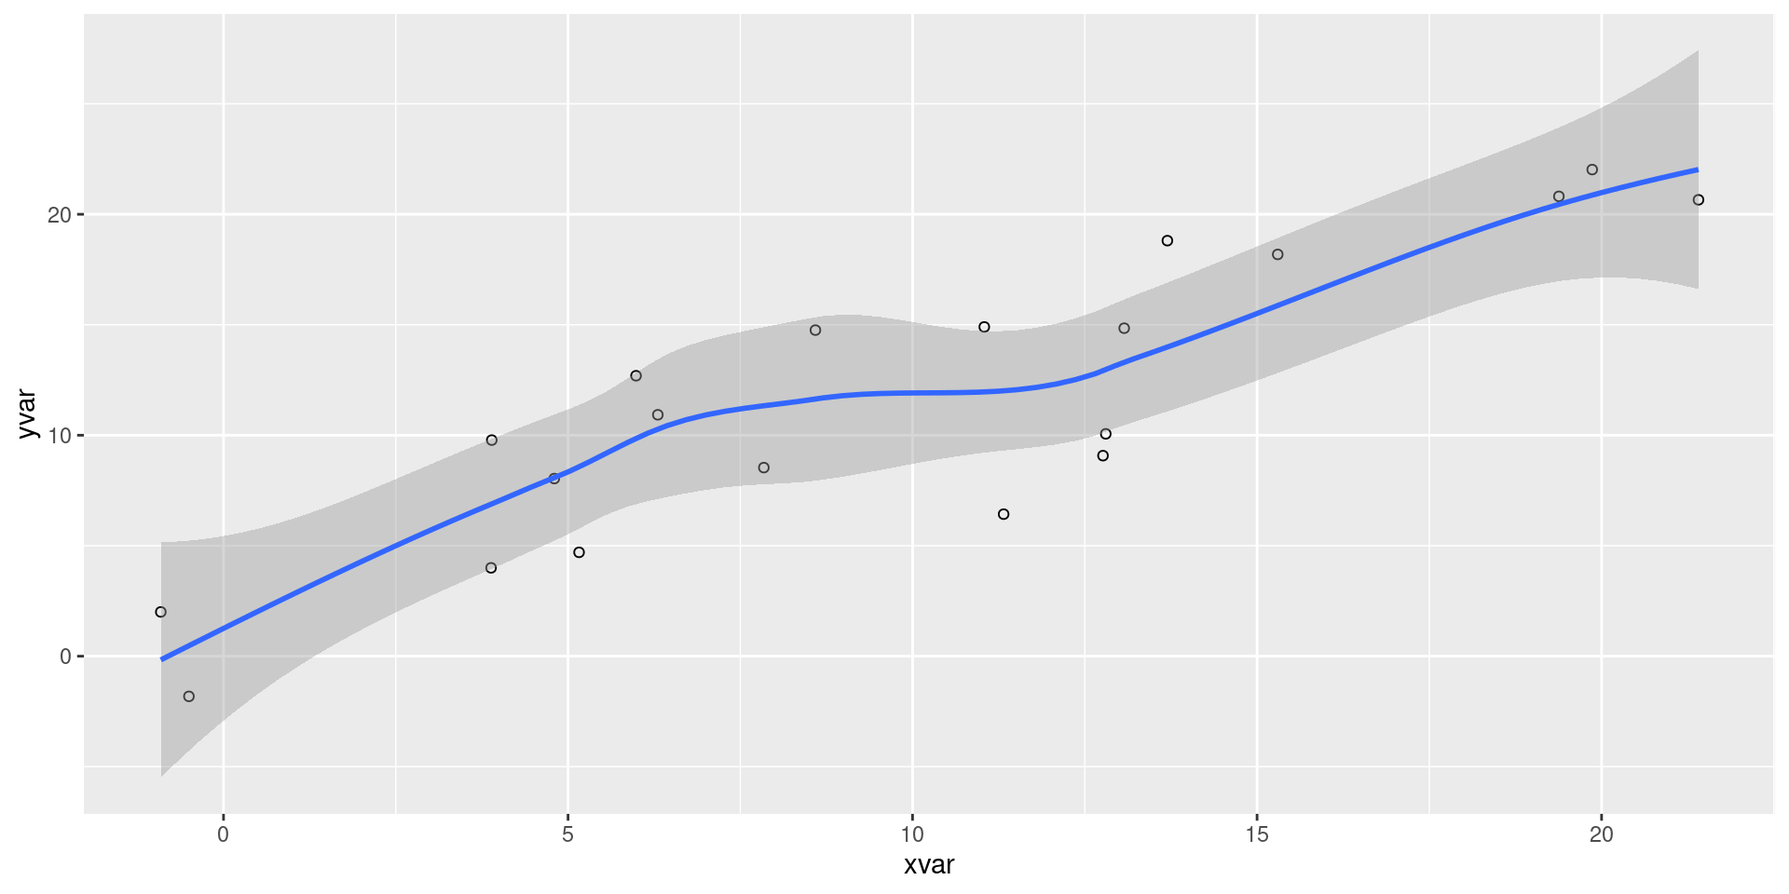
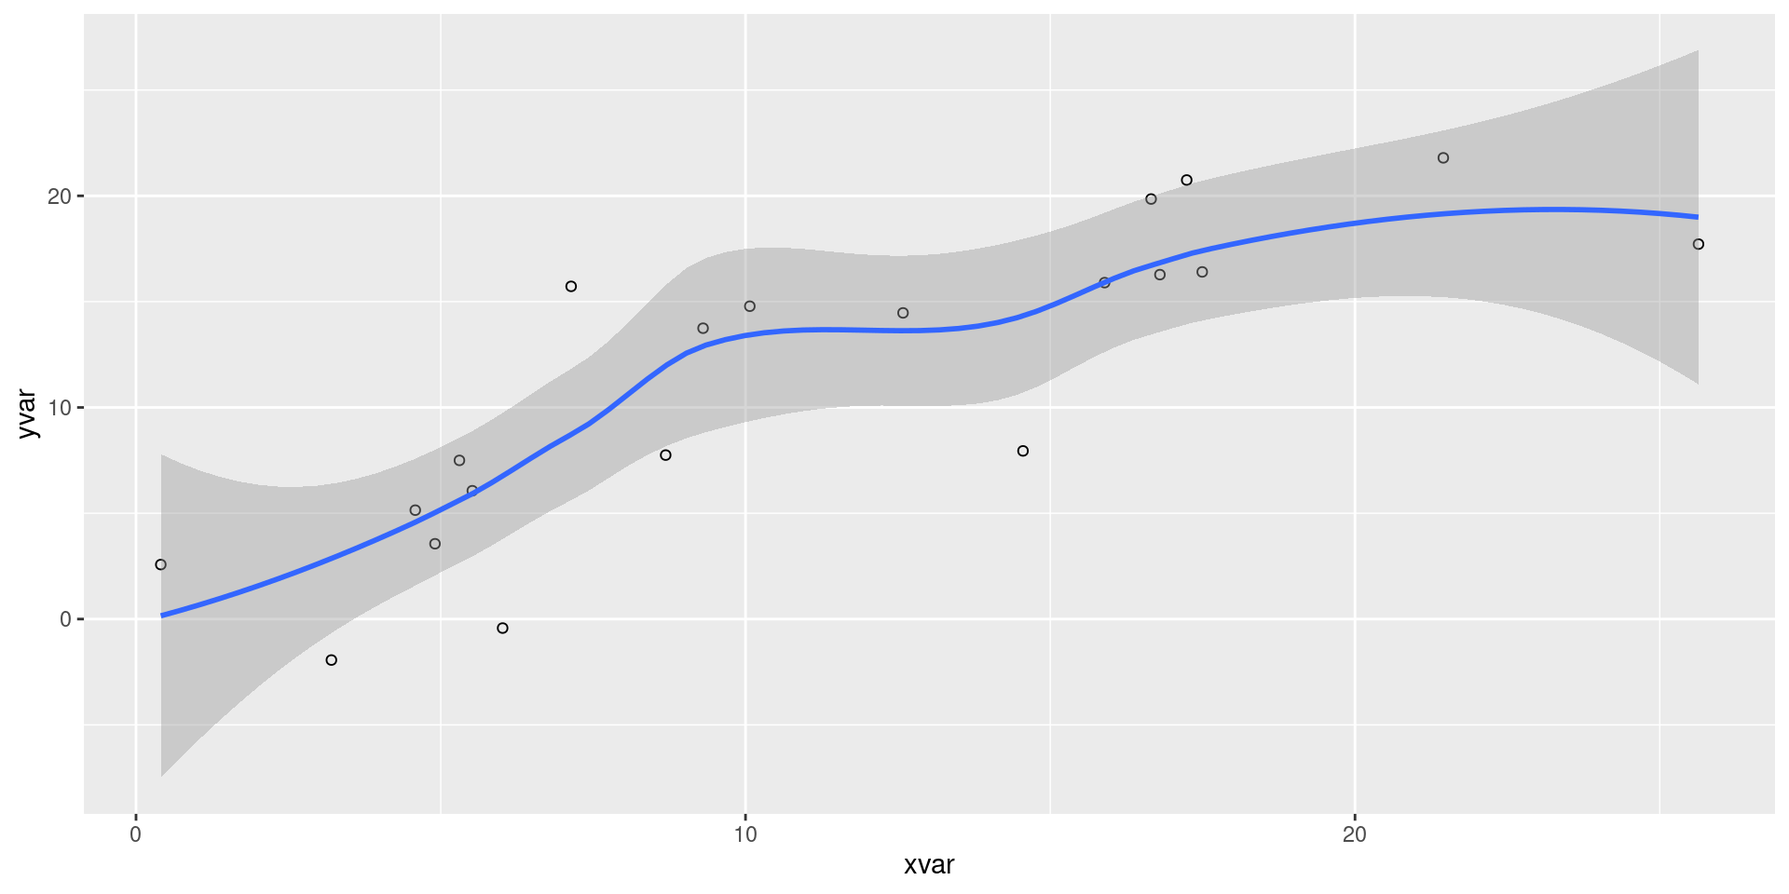
fix: Grammar, authors, etc.

diff --git a/docs/DataTrieste2023/Quarto/AuthorCarpentry.html b/docs/DataTrieste2023/Quarto/AuthorCarpentry.html
@@ -10,7 +10,7 @@
 <link href="AuthorCarpentry_files/libs/quarto-html/quarto-syntax-highlighting-dark.css" rel="stylesheet" id="quarto-text-highlighting-styles"><meta charset="utf-8">
   <meta name="generator" content="quarto-1.3.336">
 
-  <meta name="author" content="Marcela Alfaro Córdoba, Ph.D.">
+  <meta name="author" content="Marcela Alfaro Córdoba (Ph.D.) &amp; Bianca Peterson (Ph.D.)">
   <title>Author Carpentry</title>
   <meta name="apple-mobile-web-app-capable" content="yes">
   <meta name="apple-mobile-web-app-status-bar-style" content="black-translucent">
@@ -418,7 +418,7 @@
 <div class="quarto-title-authors">
 <div class="quarto-title-author">
 <div class="quarto-title-author-name">
-Marcela Alfaro Córdoba, Ph.D. 
+Marcela Alfaro Córdoba (Ph.D.) &amp; Bianca Peterson (Ph.D.) 
 </div>
 </div>
 </div>
@@ -427,16 +427,16 @@ Marcela Alfaro Córdoba, Ph.D.
 <section id="introduction" class="slide level2">
 <h2>Introduction</h2>
 <ul>
-<li><a href="https://malfaro.netlify.app/">About me</a></li>
+<li><a href="https://malfaro.netlify.app/">About Marcela</a></li>
+<li><a href="https://binxiepeterson.github.io/">About Bianca</a></li>
 <li><a href="https://authorcarpentry.github.io/">About this curriculum</a></li>
 </ul>
 </section>
 <section id="first" class="slide level2">
 <h2>First</h2>
 <ul>
-<li>Let’s compare notes on what you did on Monday</li>
-<li>Find your ORCiD link and prepare to post it on the etherpad, next to your name (starts on line 34).</li>
-<li>Questions to discuss in pairs and/or on the chat:
+<li>Find your ORCiD link and prepare to post it on the etherpad, next to your name.</li>
+<li>Questions to discuss in pairs and/or in the chat:
 <ul>
 <li>Have you used ORCiD for publishing papers?</li>
 <li>Do you think it’s important to have and use one?</li>
@@ -446,17 +446,17 @@ Marcela Alfaro Córdoba, Ph.D.
 <section id="what-are-we-going-to-do-this-afternoon" class="slide level2">
 <h2>What are we going to do this afternoon?</h2>
 <ol type="1">
-<li>Discuss workflows for academic publishing</li>
-<li>Learn how to use Quarto for reproducible reports - how to include bibliography from .bib files, and how to cite data and/or software, and others.</li>
+<li>Discuss workflows for academic publishing.</li>
+<li>Learn how to use Quarto for reproducible reports - how to include bibliography from .bib files, and how to cite data and/or software, and more.</li>
 <li>Discuss authorship, and contributorship in collaborative research projects.</li>
 </ol>
 </section>
 <section id="workflows" class="slide level2">
 <h2>Workflows</h2>
 <ul>
-<li>Discuss in pairs and/or on the chat: <a href="https://101innovations.wordpress.com/workflows/">what’s your workflow?</a></li>
-<li>If you could describe your workflow for Discovery - Analysis - Writing - Publication - Outreach - Assessment, how would it look like?</li>
-<li>Describe it <a href="https://jamboard.google.com/d/1X3IXfh_17Jpy56Tp25jgi8iE9HxhGHoQKmrQQG1P0MU/edit?usp=sharing">here</a>. You have 10 mins.</li>
+<li>Discuss in pairs and/or in the chat: <a href="https://101innovations.wordpress.com/workflows/">what’s your workflow?</a></li>
+<li>If you could describe your workflow for Discovery - Analysis - Writing - Publication - Outreach - Assessment, what would it look like?</li>
+<li>Describe it in the etherpad. You have 10 mins.</li>
 </ul>
 </section>
 <section id="reproducible-reports" class="slide level2">
@@ -470,8 +470,8 @@ Marcela Alfaro Córdoba, Ph.D.
 <section id="what-is-quarto-13" class="slide level2">
 <h2>What is Quarto? (1/3)</h2>
 <ul>
-<li>Quarto is an open-source scientific and technical publishing system built on Pandoc (same as LateX)</li>
-<li>Create dynamic content with Python, R, Julia, and Observable (JS).</li>
+<li>Quarto is an open-source scientific and technical publishing system built on Pandoc (same as LateX).</li>
+<li>Create dynamic content with Python, R, Julia, and Observable (JavaScript).</li>
 <li>Author documents as plain text markdown or Jupyter notebooks.</li>
 </ul>
 </section>
@@ -487,7 +487,6 @@ Marcela Alfaro Córdoba, Ph.D.
 <p>Some examples:</p>
 <ul>
 <li>This presentation is done in Quarto :)</li>
-<li>This was done using Quarto as well: <a href="https://malfaro2.github.io/Trieste2022/" class="uri">https://malfaro2.github.io/Trieste2022/</a></li>
 <li>You can produce html reports such as <a href="https://quarto-dev.github.io/quarto-gallery/page-layout/tufte.html">this one</a></li>
 <li>Other examples: <a href="https://quarto.org/docs/gallery/" class="uri">https://quarto.org/docs/gallery/</a></li>
 </ul>
@@ -497,38 +496,38 @@ Marcela Alfaro Córdoba, Ph.D.
 <ul>
 <li>Word processor (Microsoft Word, Open Office, Google Docs, etc.)</li>
 <li>Jupyter Notebooks</li>
-<li>Rmarkdown</li>
+<li>R Markdown</li>
 <li>LaTeX (Overleaf, TeXstudio, etc.)</li>
-<li>Any other? - type it on the chat (online) or say it out loud (in class)</li>
+<li>Any other? - type it in the chat (online) or say it out loud (in class)</li>
 </ul>
 </section>
 <section id="what-changed" class="slide level2">
 <h2>What changed?</h2>
 
 <img data-src="https://the-turing-way.netlify.app/_images/reproducibility.jpg" class="r-stretch quarto-figure-center"><p class="caption">https://the-turing-way.netlify.app/_images/reproducibility.jpg</p></section>
-<section id="anatomy" class="slide level2">
-<h2>Anatomy</h2>
+<section id="anatomy-of-a-quarto-document" class="slide level2">
+<h2>Anatomy of a Quarto document</h2>
 <ul>
 <li><strong>YAML</strong>: “YAML is a data serialization language that is often used for writing configuration files. Depending on whom you ask, YAML stands for yet another markup language or YAML ain’t markup language (a recursive acronym), which emphasizes that YAML is for data, not documents”. From <a href="https://www.redhat.com/en/topics/automation/what-is-yaml">Red Hat</a></li>
 <li><strong>Main Body</strong>: What you would write in any other document - Text</li>
-<li><strong>Code Chunks</strong>: Code in different languages (depending on what you have installed in your computer)</li>
+<li><strong>Code Chunks</strong>: Code in different languages (depending on what you have installed on your computer)</li>
 </ul>
 </section>
 <section id="lets-do-it" class="slide level2">
 <h2>Let’s do it!</h2>
 <p>Follow these steps:</p>
 <ol type="1">
-<li>Open Rstudio</li>
-<li>Create a New Project -&gt; File &gt; New Project &gt; New Directory &gt; Quarto Project &gt; Name your Directory and click on Create git repository &gt; Create Project.</li>
-<li>Let’s click on Render to test that the most basic works on your computer.</li>
-<li>If it worked, you should see a “repo_example.html” file on your local folder. You can open it on your Web Browser to see</li>
+<li>Open RStudio.</li>
+<li>Create a New Project: Click <strong>File</strong> &gt; <strong>New Project</strong> &gt; <strong>New Directory</strong> &gt; <strong>Quarto Project</strong> &gt; Name your Directory and click on <strong>Create git repository</strong> &gt; <strong>Create Project</strong>.</li>
+<li>Let’s click on <strong>Render</strong> to test that the most basic Quarto document renders on your computer.</li>
+<li>If it worked, you should see a “repo_example.html” file in your local folder. You can open it in your Web Browser to see what it looks like.</li>
 </ol>
 </section>
 <section id="lets-start-with-yaml" class="slide level2">
 <h2>Let’s start with YAML</h2>
 <ul>
 <li>Be careful with the indentation!</li>
-<li>Let’s add: title, author, and date</li>
+<li>Let’s add: title, author, and date.</li>
 <li>2 minutes</li>
 </ul>
 <pre><code>---
@@ -540,30 +539,30 @@ format: gfm
 </section>
 <section id="yaml-details" class="slide level2">
 <h2>YAML details</h2>
-<p>It depends on the format you want to work on:</p>
+<p>It depends on the format you want to work in:</p>
 <ul>
 <li><a href="https://quarto.org/docs/output-formats/gfm.html">Markdown</a></li>
-<li><a href="https://quarto.org/docs/output-formats/html-basics.html">html</a></li>
+<li><a href="https://quarto.org/docs/output-formats/html-basics.html">HTML</a></li>
 <li><a href="https://quarto.org/docs/output-formats/pdf-basics.html">PDF</a></li>
 <li><a href="https://quarto.org/docs/output-formats/ms-word.html">MS Word</a></li>
-<li>Others (Presentations, Open Office, ePub, etc.)</li>
+<li>Other formats (Presentations, Open Office, ePub, etc.)</li>
 </ul>
 </section>
-<section id="we-will-continue-to-work-on-html" class="slide level2">
-<h2>We will continue to work on html</h2>
+<section id="we-will-continue-to-work-in-html" class="slide level2">
+<h2>We will continue to work in HTML</h2>
 <ul>
-<li>Why? because is more flexible</li>
-<li>Nevertheless, you can also use gfm format to create Readme.md files for your repo on GitHub or GitLab.</li>
-<li>It is possible to deploy as a webpage on Github/Gitlab</li>
-<li>Data and code available from your repo as a <a href="https://docs.github.com/en/pages/getting-started-with-github-pages/creating-a-github-pages-site">Webpage</a></li>
-<li>You can also <a href="https://docs.github.com/en/repositories/archiving-a-github-repository/referencing-and-citing-content">add a DOI</a></li>
+<li>Why? Because it’s more flexible.</li>
+<li>Nevertheless, you can also use <code>gfm</code> format to create <code>Readme.md</code> files for your repo on GitHub or GitLab.</li>
+<li>It is possible to deploy as a webpage on GitHub/GitLab.</li>
+<li>Data and code are available from your repo as a <a href="https://docs.github.com/en/pages/getting-started-with-github-pages/creating-a-github-pages-site">Webpage</a>.</li>
+<li>You can also <a href="https://docs.github.com/en/repositories/archiving-a-github-repository/referencing-and-citing-content">add a DOI</a>.</li>
 </ul>
 </section>
-<section id="now-lets-add-text-on-the-main-body" class="slide level2">
-<h2>Now let’s add text on the Main Body</h2>
+<section id="now-lets-add-text-in-the-main-body" class="slide level2">
+<h2>Now let’s add text in the Main Body</h2>
 <pre><code>## Introduction
 
-This a Quarto document. To learn more about Quarto see &lt;https://quarto.org&gt;.
+This is a Quarto document. To learn more about Quarto see &lt;https://quarto.org&gt;.
 
 Another way to create links is to use: [a label with a link](https://quarto.org)</code></pre>
 </section>
@@ -595,13 +594,14 @@ Another way to create links is to use: [a label with a link](https://quarto.org)
 <details>
 <summary>Code</summary>
 <div class="sourceCode cell-code" id="cb6"><pre class="sourceCode numberSource r number-lines code-with-copy"><code class="sourceCode r"><span id="cb6-1"><a href="#cb6-1"></a><span class="fu">library</span>(ggplot2)</span>
-<span id="cb6-2"><a href="#cb6-2"></a>dat <span class="ot">&lt;-</span> <span class="fu">data.frame</span>(<span class="at">cond =</span> <span class="fu">rep</span>(<span class="fu">c</span>(<span class="st">"A"</span>, <span class="st">"B"</span>), <span class="at">each=</span><span class="dv">10</span>),</span>
-<span id="cb6-3"><a href="#cb6-3"></a>                  <span class="at">xvar =</span> <span class="dv">1</span><span class="sc">:</span><span class="dv">20</span> <span class="sc">+</span> <span class="fu">rnorm</span>(<span class="dv">20</span>,<span class="at">sd=</span><span class="dv">3</span>),</span>
-<span id="cb6-4"><a href="#cb6-4"></a>                  <span class="at">yvar =</span> <span class="dv">1</span><span class="sc">:</span><span class="dv">20</span> <span class="sc">+</span> <span class="fu">rnorm</span>(<span class="dv">20</span>,<span class="at">sd=</span><span class="dv">3</span>))</span>
-<span id="cb6-5"><a href="#cb6-5"></a></span>
-<span id="cb6-6"><a href="#cb6-6"></a><span class="fu">ggplot</span>(dat, <span class="fu">aes</span>(<span class="at">x=</span>xvar, <span class="at">y=</span>yvar)) <span class="sc">+</span></span>
-<span id="cb6-7"><a href="#cb6-7"></a>    <span class="fu">geom_point</span>(<span class="at">shape=</span><span class="dv">1</span>) <span class="sc">+</span> </span>
-<span id="cb6-8"><a href="#cb6-8"></a>    <span class="fu">geom_smooth</span>() </span></code><button title="Copy to Clipboard" class="code-copy-button"><i class="bi"></i></button></pre></div>
+<span id="cb6-2"><a href="#cb6-2"></a></span>
+<span id="cb6-3"><a href="#cb6-3"></a>dat <span class="ot">&lt;-</span> <span class="fu">data.frame</span>(<span class="at">cond =</span> <span class="fu">rep</span>(<span class="fu">c</span>(<span class="st">"A"</span>, <span class="st">"B"</span>), <span class="at">each=</span><span class="dv">10</span>),</span>
+<span id="cb6-4"><a href="#cb6-4"></a>                  <span class="at">xvar =</span> <span class="dv">1</span><span class="sc">:</span><span class="dv">20</span> <span class="sc">+</span> <span class="fu">rnorm</span>(<span class="dv">20</span>,<span class="at">sd=</span><span class="dv">3</span>),</span>
+<span id="cb6-5"><a href="#cb6-5"></a>                  <span class="at">yvar =</span> <span class="dv">1</span><span class="sc">:</span><span class="dv">20</span> <span class="sc">+</span> <span class="fu">rnorm</span>(<span class="dv">20</span>,<span class="at">sd=</span><span class="dv">3</span>))</span>
+<span id="cb6-6"><a href="#cb6-6"></a></span>
+<span id="cb6-7"><a href="#cb6-7"></a><span class="fu">ggplot</span>(dat, <span class="fu">aes</span>(<span class="at">x=</span>xvar, <span class="at">y=</span>yvar)) <span class="sc">+</span></span>
+<span id="cb6-8"><a href="#cb6-8"></a>    <span class="fu">geom_point</span>(<span class="at">shape=</span><span class="dv">1</span>) <span class="sc">+</span> </span>
+<span id="cb6-9"><a href="#cb6-9"></a>    <span class="fu">geom_smooth</span>() </span></code><button title="Copy to Clipboard" class="code-copy-button"><i class="bi"></i></button></pre></div>
 </details>
 
 </div>
@@ -742,10 +742,10 @@ P\left(A=2\middle|\frac{A^2}{B}&gt;4\right)
 </section>
 <section id="bib-files" class="slide level2">
 <h2>.bib files</h2>
-<p>The easiest way to do this is maintaining a .bib file. You can create it using Zotero, or you can create it by hand using <a href="https://www.doi2bib.org/" class="uri">https://www.doi2bib.org/</a></p>
+<p>The easiest way to do this is maintaining a <code>.bib</code> file. You can create it using Zotero, or you can create it by hand using <a href="https://www.doi2bib.org/" class="uri">https://www.doi2bib.org/</a>.</p>
 <ul>
 <li>Zotero: Select the library you wish to export to BibTex in Zotero.</li>
-<li>Create a file on any Text editor -&gt; paste the bibs using <a href="https://www.doi2bib.org/" class="uri">https://www.doi2bib.org/</a> save it as .bib on the same project folder.</li>
+<li>Create a file in any Text editor -&gt; paste the bibs using <a href="https://www.doi2bib.org/" class="uri">https://www.doi2bib.org/</a> and save it as <code>&lt;filename&gt;.bib</code> in the same project folder.</li>
 </ul>
 </section>
 <section id="references" class="slide level2 smaller scrollable">
@@ -773,7 +773,7 @@ Resplandy, L., R. F. Keeling, Y. Eddebbar, M. K. Brooks, R. Wang, L. Bopp, M. C.
 <ul>
 <li>From IEEE: <a href="https://ieeexplore.ieee.org/document/9018356" class="uri">https://ieeexplore.ieee.org/document/9018356</a></li>
 <li>From PeerJ: <a href="https://peerj.com/articles/cs-86/" class="uri">https://peerj.com/articles/cs-86/</a></li>
-<li>Persistent identifiers for code and data. How? Zenodo, FigShare, Institutional Repository, Github/DOI.</li>
+<li>Persistent identifiers for code and data. How? Zenodo, FigShare, Institutional Repository, GitHub/DOI.</li>
 </ul>
 </section>
 <section id="now-lets-go-back-to-the-author-process" class="slide level2">
@@ -787,26 +787,27 @@ Resplandy, L., R. F. Keeling, Y. Eddebbar, M. K. Brooks, R. Wang, L. Bopp, M. C.
 <section id="group-discussion-22" class="slide level2">
 <h2>Group Discussion (2/2)</h2>
 <p>Q2. When and how would you discuss the author contributions in the paper? You can use this as a guide: <a href="https://credit.niso.org/" class="uri">https://credit.niso.org/</a></p>
-<p>Q3. How/when you should decide which journals do you want to publish on?</p>
+<p>Q3. How/when should you decide which journals do you want to publish in?</p>
 </section>
 <section id="where-do-we-publish-it-more-about-workflows" class="slide level2">
-<h2>Where do we publish it? more about workflows!</h2>
+<h2>Where do we publish it? More about workflows!</h2>
 <ul>
-<li><p>We’ll have two excellent talks today and tomorrow</p>
+<li><p>We’ll have the following guest talk:</p>
 <ul>
 <li>“How to avoid ‘predatory’ journals” - <a href="https://www.inasp.info/staff/andy-nobes-0">Andy Nobes</a></li>
-<li>“Open Access publishing - innovative workflows and platforms for optimal research dissemination and discovery”- <a href="https://access2perspectives.org/team/jo-havemann/">Jo Havemann</a></li>
 </ul></li>
 </ul>
 </section>
 <section id="thank-you" class="slide level2">
 <h2>Thank you!</h2>
+<p>Marcela Alfaro Córdoba, Ph.D.</p>
 <p><a href="https://twitter.com/macordob"><svg viewbox="0 0 512 512" style="height:1em;position:relative;display:inline-block;top:.1em;fill:white;" xmlns="http://www.w3.org/2000/svg"> <path d="M459.37 151.716c.325 4.548.325 9.097.325 13.645 0 138.72-105.583 298.558-298.558 298.558-59.452 0-114.68-17.219-161.137-47.106 8.447.974 16.568 1.299 25.34 1.299 49.055 0 94.213-16.568 130.274-44.832-46.132-.975-84.792-31.188-98.112-72.772 6.498.974 12.995 1.624 19.818 1.624 9.421 0 18.843-1.3 27.614-3.573-48.081-9.747-84.143-51.98-84.143-102.985v-1.299c13.969 7.797 30.214 12.67 47.431 13.319-28.264-18.843-46.781-51.005-46.781-87.391 0-19.492 5.197-37.36 14.294-52.954 51.655 63.675 129.3 105.258 216.365 109.807-1.624-7.797-2.599-15.918-2.599-24.04 0-57.828 46.782-104.934 104.934-104.934 30.213 0 57.502 12.67 76.67 33.137 23.715-4.548 46.456-13.32 66.599-25.34-7.798 24.366-24.366 44.833-46.132 57.827 21.117-2.273 41.584-8.122 60.426-16.243-14.292 20.791-32.161 39.308-52.628 54.253z"></path></svg> macordob</a><br>
 <a href="mailto:macordob@ucsc.edu"><svg viewbox="0 0 512 512" style="height:1em;position:relative;display:inline-block;top:.1em;fill:white;" xmlns="http://www.w3.org/2000/svg"> <path d="M512 464c0 26.51-21.49 48-48 48H48c-26.51 0-48-21.49-48-48V200.724a48 48 0 0 1 18.387-37.776c24.913-19.529 45.501-35.365 164.2-121.511C199.412 29.17 232.797-.347 256 .003c23.198-.354 56.596 29.172 73.413 41.433 118.687 86.137 139.303 101.995 164.2 121.512A48 48 0 0 1 512 200.724V464zm-65.666-196.605c-2.563-3.728-7.7-4.595-11.339-1.907-22.845 16.873-55.462 40.705-105.582 77.079-16.825 12.266-50.21 41.781-73.413 41.43-23.211.344-56.559-29.143-73.413-41.43-50.114-36.37-82.734-60.204-105.582-77.079-3.639-2.688-8.776-1.821-11.339 1.907l-9.072 13.196a7.998 7.998 0 0 0 1.839 10.967c22.887 16.899 55.454 40.69 105.303 76.868 20.274 14.781 56.524 47.813 92.264 47.573 35.724.242 71.961-32.771 92.263-47.573 49.85-36.179 82.418-59.97 105.303-76.868a7.998 7.998 0 0 0 1.839-10.967l-9.071-13.196z"></path></svg> macordob@ucsc.edu</a><br>
 <a href="https://malfaro.netlify.app/"><svg viewbox="0 0 512 512" style="height:1em;position:relative;display:inline-block;top:.1em;fill:white;" xmlns="http://www.w3.org/2000/svg"> <path d="M505.12019,19.09375c-1.18945-5.53125-6.65819-11-12.207-12.1875C460.716,0,435.507,0,410.40747,0,307.17523,0,245.26909,55.20312,199.05238,128H94.83772c-16.34763.01562-35.55658,11.875-42.88664,26.48438L2.51562,253.29688A28.4,28.4,0,0,0,0,264a24.00867,24.00867,0,0,0,24.00582,24H127.81618l-22.47457,22.46875c-11.36521,11.36133-12.99607,32.25781,0,45.25L156.24582,406.625c11.15623,11.1875,32.15619,13.15625,45.27726,0l22.47457-22.46875V488a24.00867,24.00867,0,0,0,24.00581,24,28.55934,28.55934,0,0,0,10.707-2.51562l98.72834-49.39063c14.62888-7.29687,26.50776-26.5,26.50776-42.85937V312.79688c72.59753-46.3125,128.03493-108.40626,128.03493-211.09376C512.07526,76.5,512.07526,51.29688,505.12019,19.09375ZM384.04033,168A40,40,0,1,1,424.05,128,40.02322,40.02322,0,0,1,384.04033,168Z"></path></svg> https://malfaro.netlify.app/</a></p>
-<svg viewbox="0 0 512 512" style="height:1em;position:relative;display:inline-block;top:.1em;" xmlns="http://www.w3.org/2000/svg">
-<path d="M505.12019,19.09375c-1.18945-5.53125-6.65819-11-12.207-12.1875C460.716,0,435.507,0,410.40747,0,307.17523,0,245.26909,55.20312,199.05238,128H94.83772c-16.34763.01562-35.55658,11.875-42.88664,26.48438L2.51562,253.29688A28.4,28.4,0,0,0,0,264a24.00867,24.00867,0,0,0,24.00582,24H127.81618l-22.47457,22.46875c-11.36521,11.36133-12.99607,32.25781,0,45.25L156.24582,406.625c11.15623,11.1875,32.15619,13.15625,45.27726,0l22.47457-22.46875V488a24.00867,24.00867,0,0,0,24.00581,24,28.55934,28.55934,0,0,0,10.707-2.51562l98.72834-49.39063c14.62888-7.29687,26.50776-26.5,26.50776-42.85937V312.79688c72.59753-46.3125,128.03493-108.40626,128.03493-211.09376C512.07526,76.5,512.07526,51.29688,505.12019,19.09375ZM384.04033,168A40,40,0,1,1,424.05,128,40.02322,40.02322,0,0,1,384.04033,168Z"></path>
-</svg>
+<p>Bianca Peterson, Ph.D.</p>
+<p><a href="https://twitter.com/binxiepeterson"><svg viewbox="0 0 512 512" style="height:1em;position:relative;display:inline-block;top:.1em;fill:white;" xmlns="http://www.w3.org/2000/svg"> <path d="M459.37 151.716c.325 4.548.325 9.097.325 13.645 0 138.72-105.583 298.558-298.558 298.558-59.452 0-114.68-17.219-161.137-47.106 8.447.974 16.568 1.299 25.34 1.299 49.055 0 94.213-16.568 130.274-44.832-46.132-.975-84.792-31.188-98.112-72.772 6.498.974 12.995 1.624 19.818 1.624 9.421 0 18.843-1.3 27.614-3.573-48.081-9.747-84.143-51.98-84.143-102.985v-1.299c13.969 7.797 30.214 12.67 47.431 13.319-28.264-18.843-46.781-51.005-46.781-87.391 0-19.492 5.197-37.36 14.294-52.954 51.655 63.675 129.3 105.258 216.365 109.807-1.624-7.797-2.599-15.918-2.599-24.04 0-57.828 46.782-104.934 104.934-104.934 30.213 0 57.502 12.67 76.67 33.137 23.715-4.548 46.456-13.32 66.599-25.34-7.798 24.366-24.366 44.833-46.132 57.827 21.117-2.273 41.584-8.122 60.426-16.243-14.292 20.791-32.161 39.308-52.628 54.253z"></path></svg> binxiepeterson</a><br>
+<a href="mailto:bianca@fathomdata.dev"><svg viewbox="0 0 512 512" style="height:1em;position:relative;display:inline-block;top:.1em;fill:white;" xmlns="http://www.w3.org/2000/svg"> <path d="M512 464c0 26.51-21.49 48-48 48H48c-26.51 0-48-21.49-48-48V200.724a48 48 0 0 1 18.387-37.776c24.913-19.529 45.501-35.365 164.2-121.511C199.412 29.17 232.797-.347 256 .003c23.198-.354 56.596 29.172 73.413 41.433 118.687 86.137 139.303 101.995 164.2 121.512A48 48 0 0 1 512 200.724V464zm-65.666-196.605c-2.563-3.728-7.7-4.595-11.339-1.907-22.845 16.873-55.462 40.705-105.582 77.079-16.825 12.266-50.21 41.781-73.413 41.43-23.211.344-56.559-29.143-73.413-41.43-50.114-36.37-82.734-60.204-105.582-77.079-3.639-2.688-8.776-1.821-11.339 1.907l-9.072 13.196a7.998 7.998 0 0 0 1.839 10.967c22.887 16.899 55.454 40.69 105.303 76.868 20.274 14.781 56.524 47.813 92.264 47.573 35.724.242 71.961-32.771 92.263-47.573 49.85-36.179 82.418-59.97 105.303-76.868a7.998 7.998 0 0 0 1.839-10.967l-9.071-13.196z"></path></svg> bianca@fathomdata.dev</a></p>
+<p><a href="https://binxiepeterson.github.io/"><svg viewbox="0 0 512 512" style="height:1em;position:relative;display:inline-block;top:.1em;fill:white;" xmlns="http://www.w3.org/2000/svg"> <path d="M505.12019,19.09375c-1.18945-5.53125-6.65819-11-12.207-12.1875C460.716,0,435.507,0,410.40747,0,307.17523,0,245.26909,55.20312,199.05238,128H94.83772c-16.34763.01562-35.55658,11.875-42.88664,26.48438L2.51562,253.29688A28.4,28.4,0,0,0,0,264a24.00867,24.00867,0,0,0,24.00582,24H127.81618l-22.47457,22.46875c-11.36521,11.36133-12.99607,32.25781,0,45.25L156.24582,406.625c11.15623,11.1875,32.15619,13.15625,45.27726,0l22.47457-22.46875V488a24.00867,24.00867,0,0,0,24.00581,24,28.55934,28.55934,0,0,0,10.707-2.51562l98.72834-49.39063c14.62888-7.29687,26.50776-26.5,26.50776-42.85937V312.79688c72.59753-46.3125,128.03493-108.40626,128.03493-211.09376C512.07526,76.5,512.07526,51.29688,505.12019,19.09375ZM384.04033,168A40,40,0,1,1,424.05,128,40.02322,40.02322,0,0,1,384.04033,168Z"></path></svg> https://binxiepeterson.github.io/</a></p>
 
 <img src="images/logo.png" class="slide-logo r-stretch"><div class="footer footer-default">
 <p><a href="https://bit.ly/3yWQlBV" class="uri">https://bit.ly/3yWQlBV</a></p>
